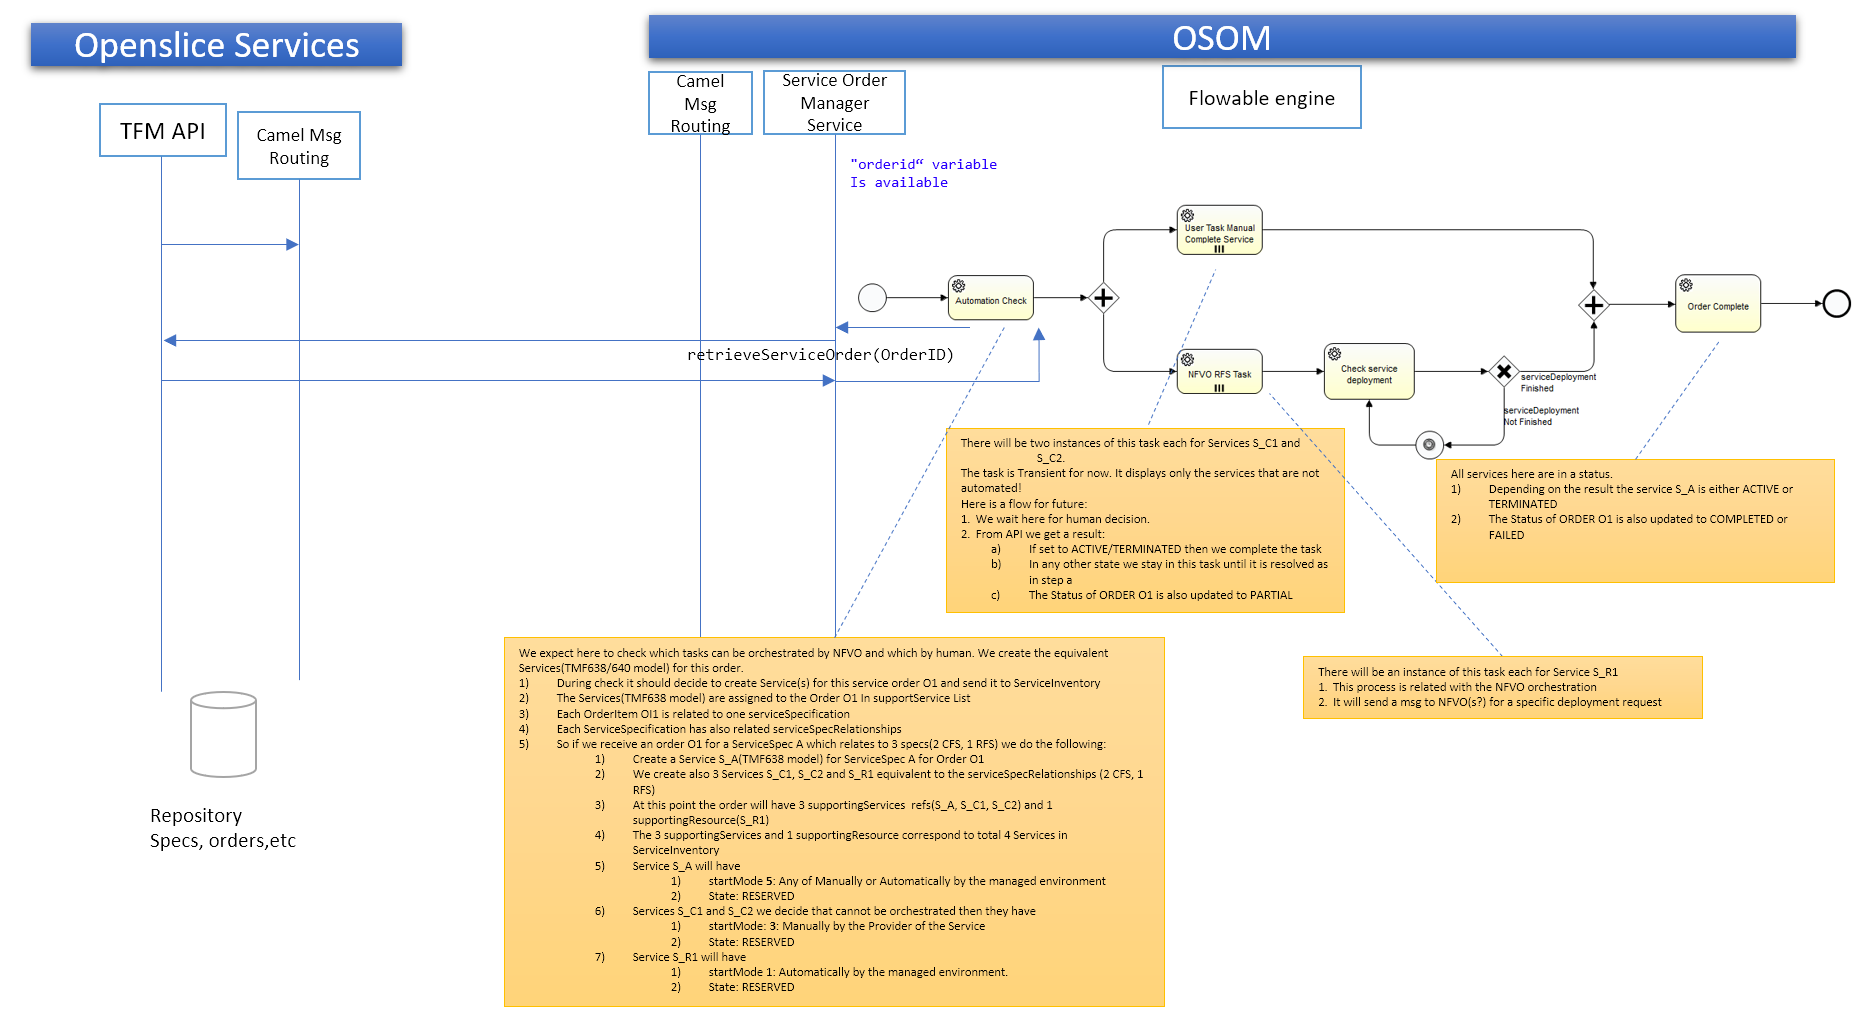
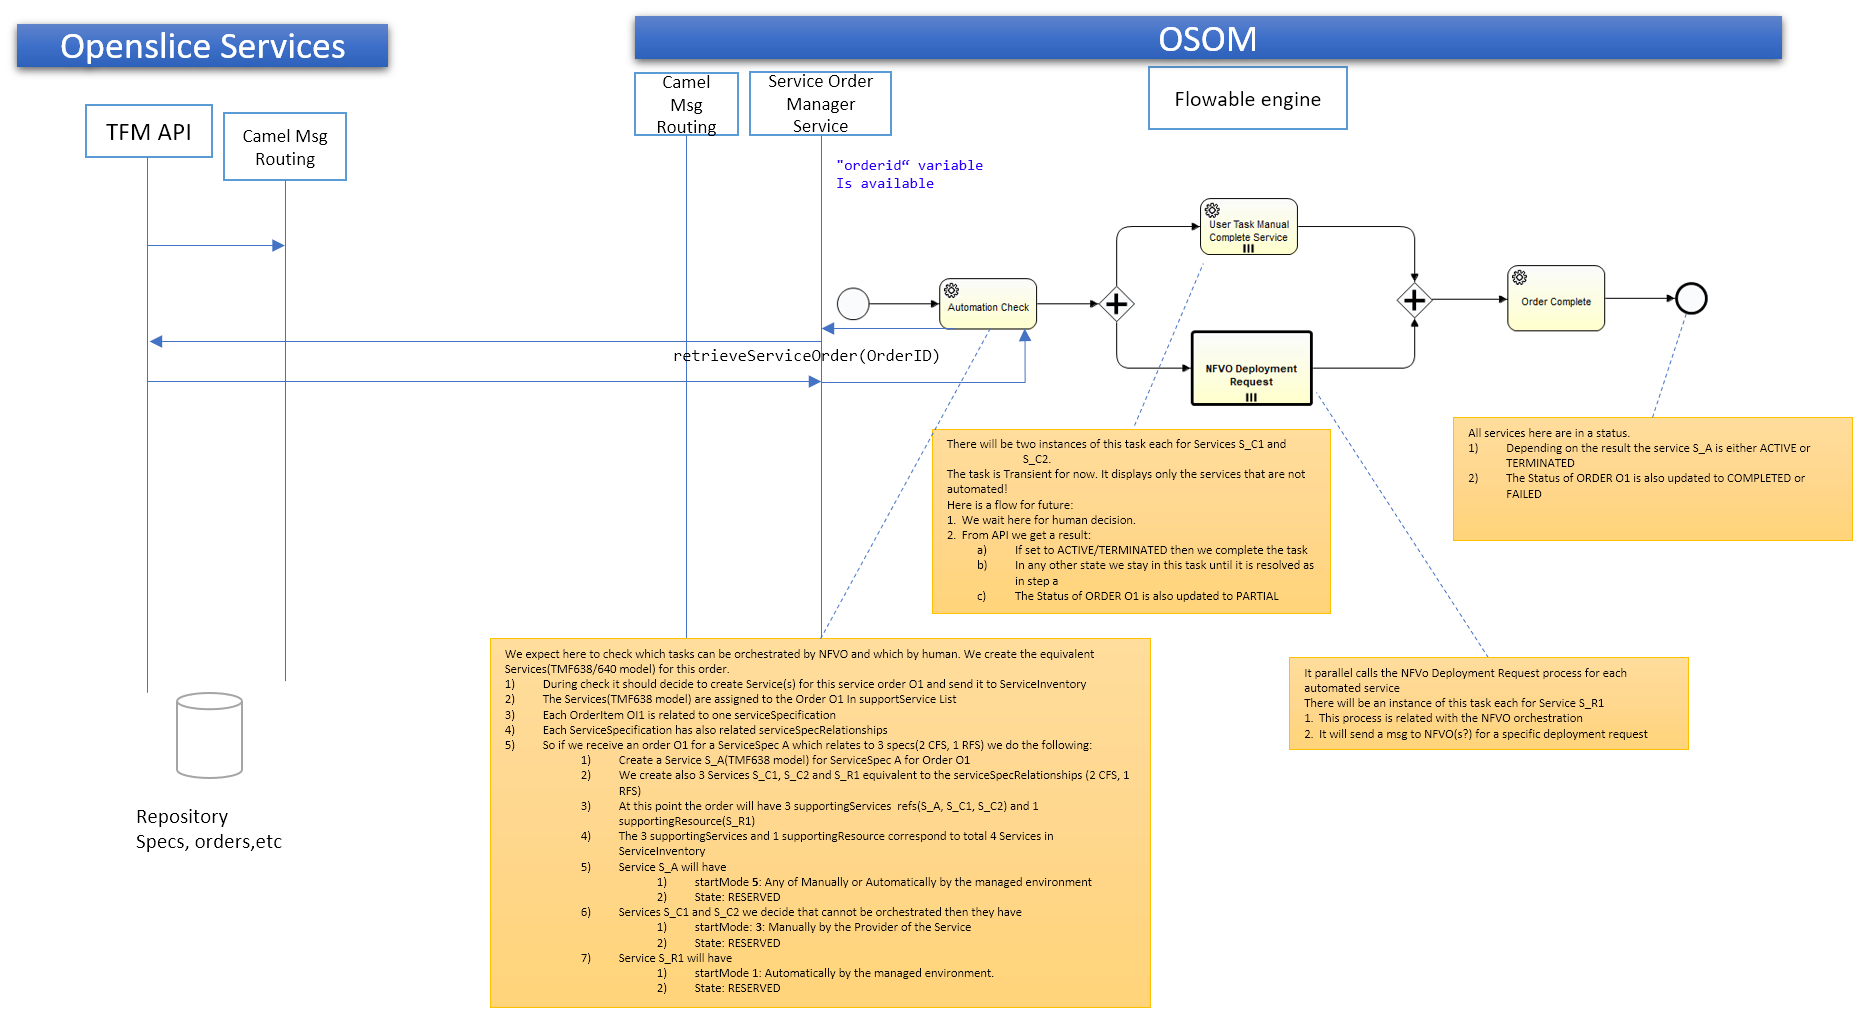
added nfvo deployment req

diff --git a/doc/architecture/osom.md b/doc/architecture/osom.md
@@ -69,7 +69,7 @@ Here is a flow for future:
 	b. In any other state we stay in this task until it is resolved as in step a
 	c. The Status of ORDER O1 is also updated to PARTIAL
 
-There will be an instance of  task "NFVO RFS Task" each for Service S_R1:
+There will be an instance of  NFVODeploymentRequest process  each for Service S_R1. (see later)
 
 1. This process is related with the NFVO orchestration
 2. It will send a msg to NFVO(s?) for a specific deployment request
@@ -85,6 +85,19 @@ A Service follows the states as defined in TMF638 Service Inventory specificatio
 
 [![Service state](../images/service_states.png)](../images/service_states.png)
   
+
+
+## NFVODeploymentRequest process
+
+ 
+[![NFVODeploymentRequest BPM](../images/NFVODeploymentReq_process.png)](../images/NFVODeploymentReq_process.png)
+
+This process is related with the NFVO orchestration
+It will send a msg to NFVO(s?) for a specific deployment request
+Then it checks the deployment status. It will wait 30 secs each time until the deployment is running (or failed)
+
+
+
 ## Check In Progress orders process
 
 Every 1 minute the "Check In Progress Orders" process is executed checking if a supported Service changed state (i.e. to ACTIVE) then the whole Order will change state (e.g. go to COMPLETED)
